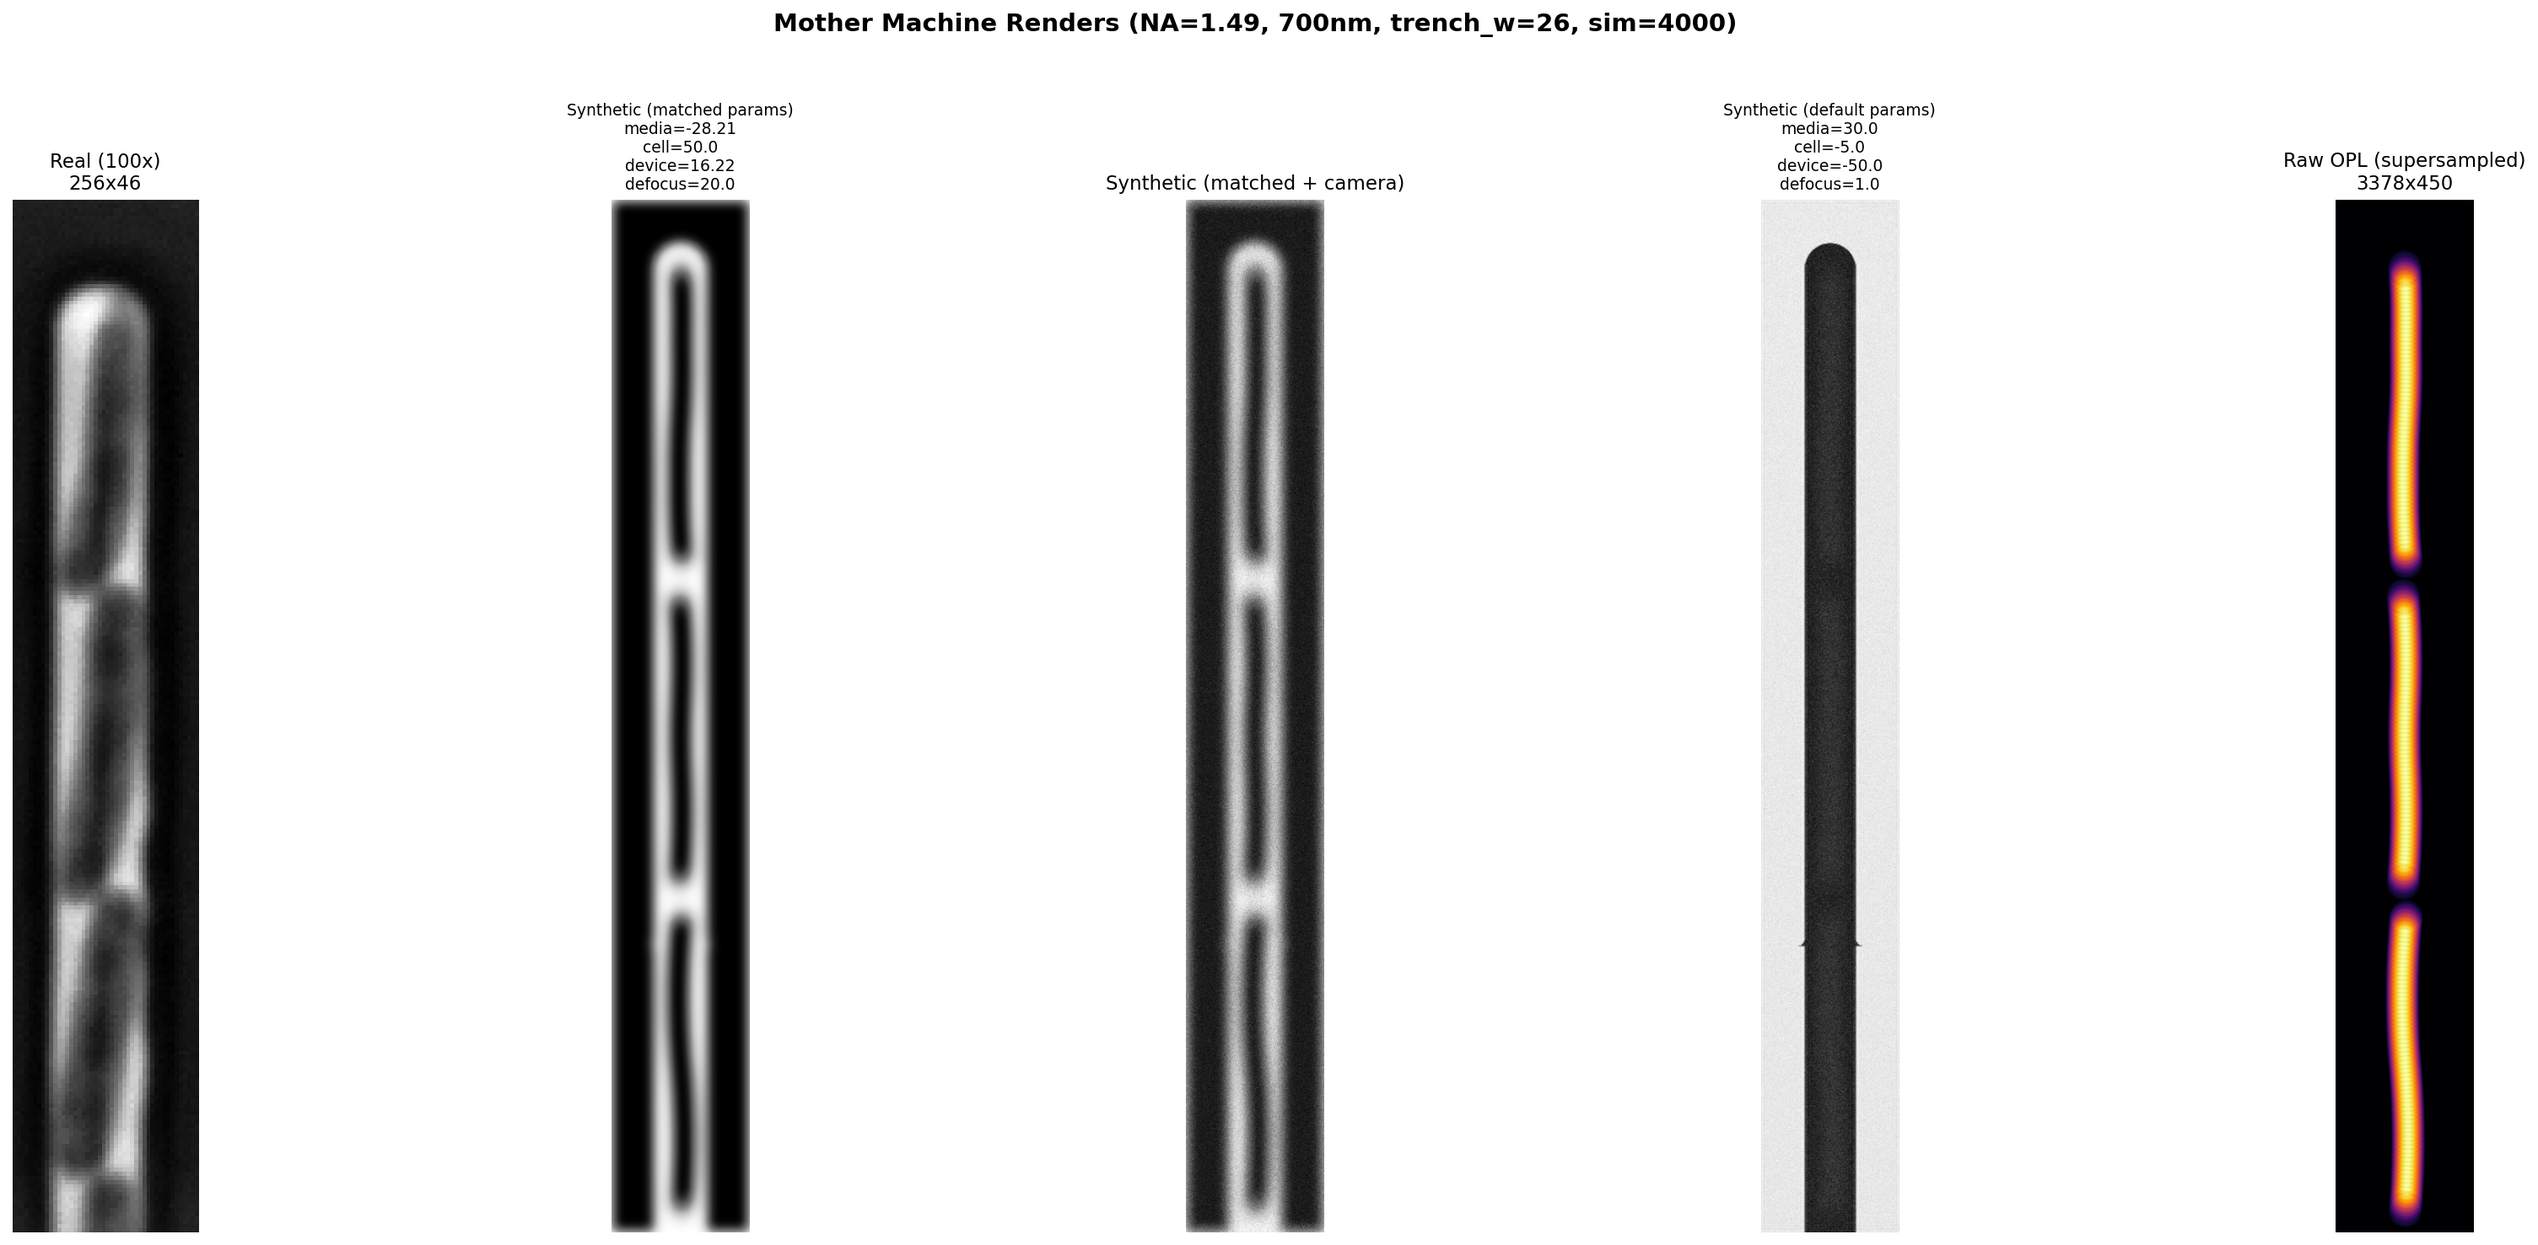
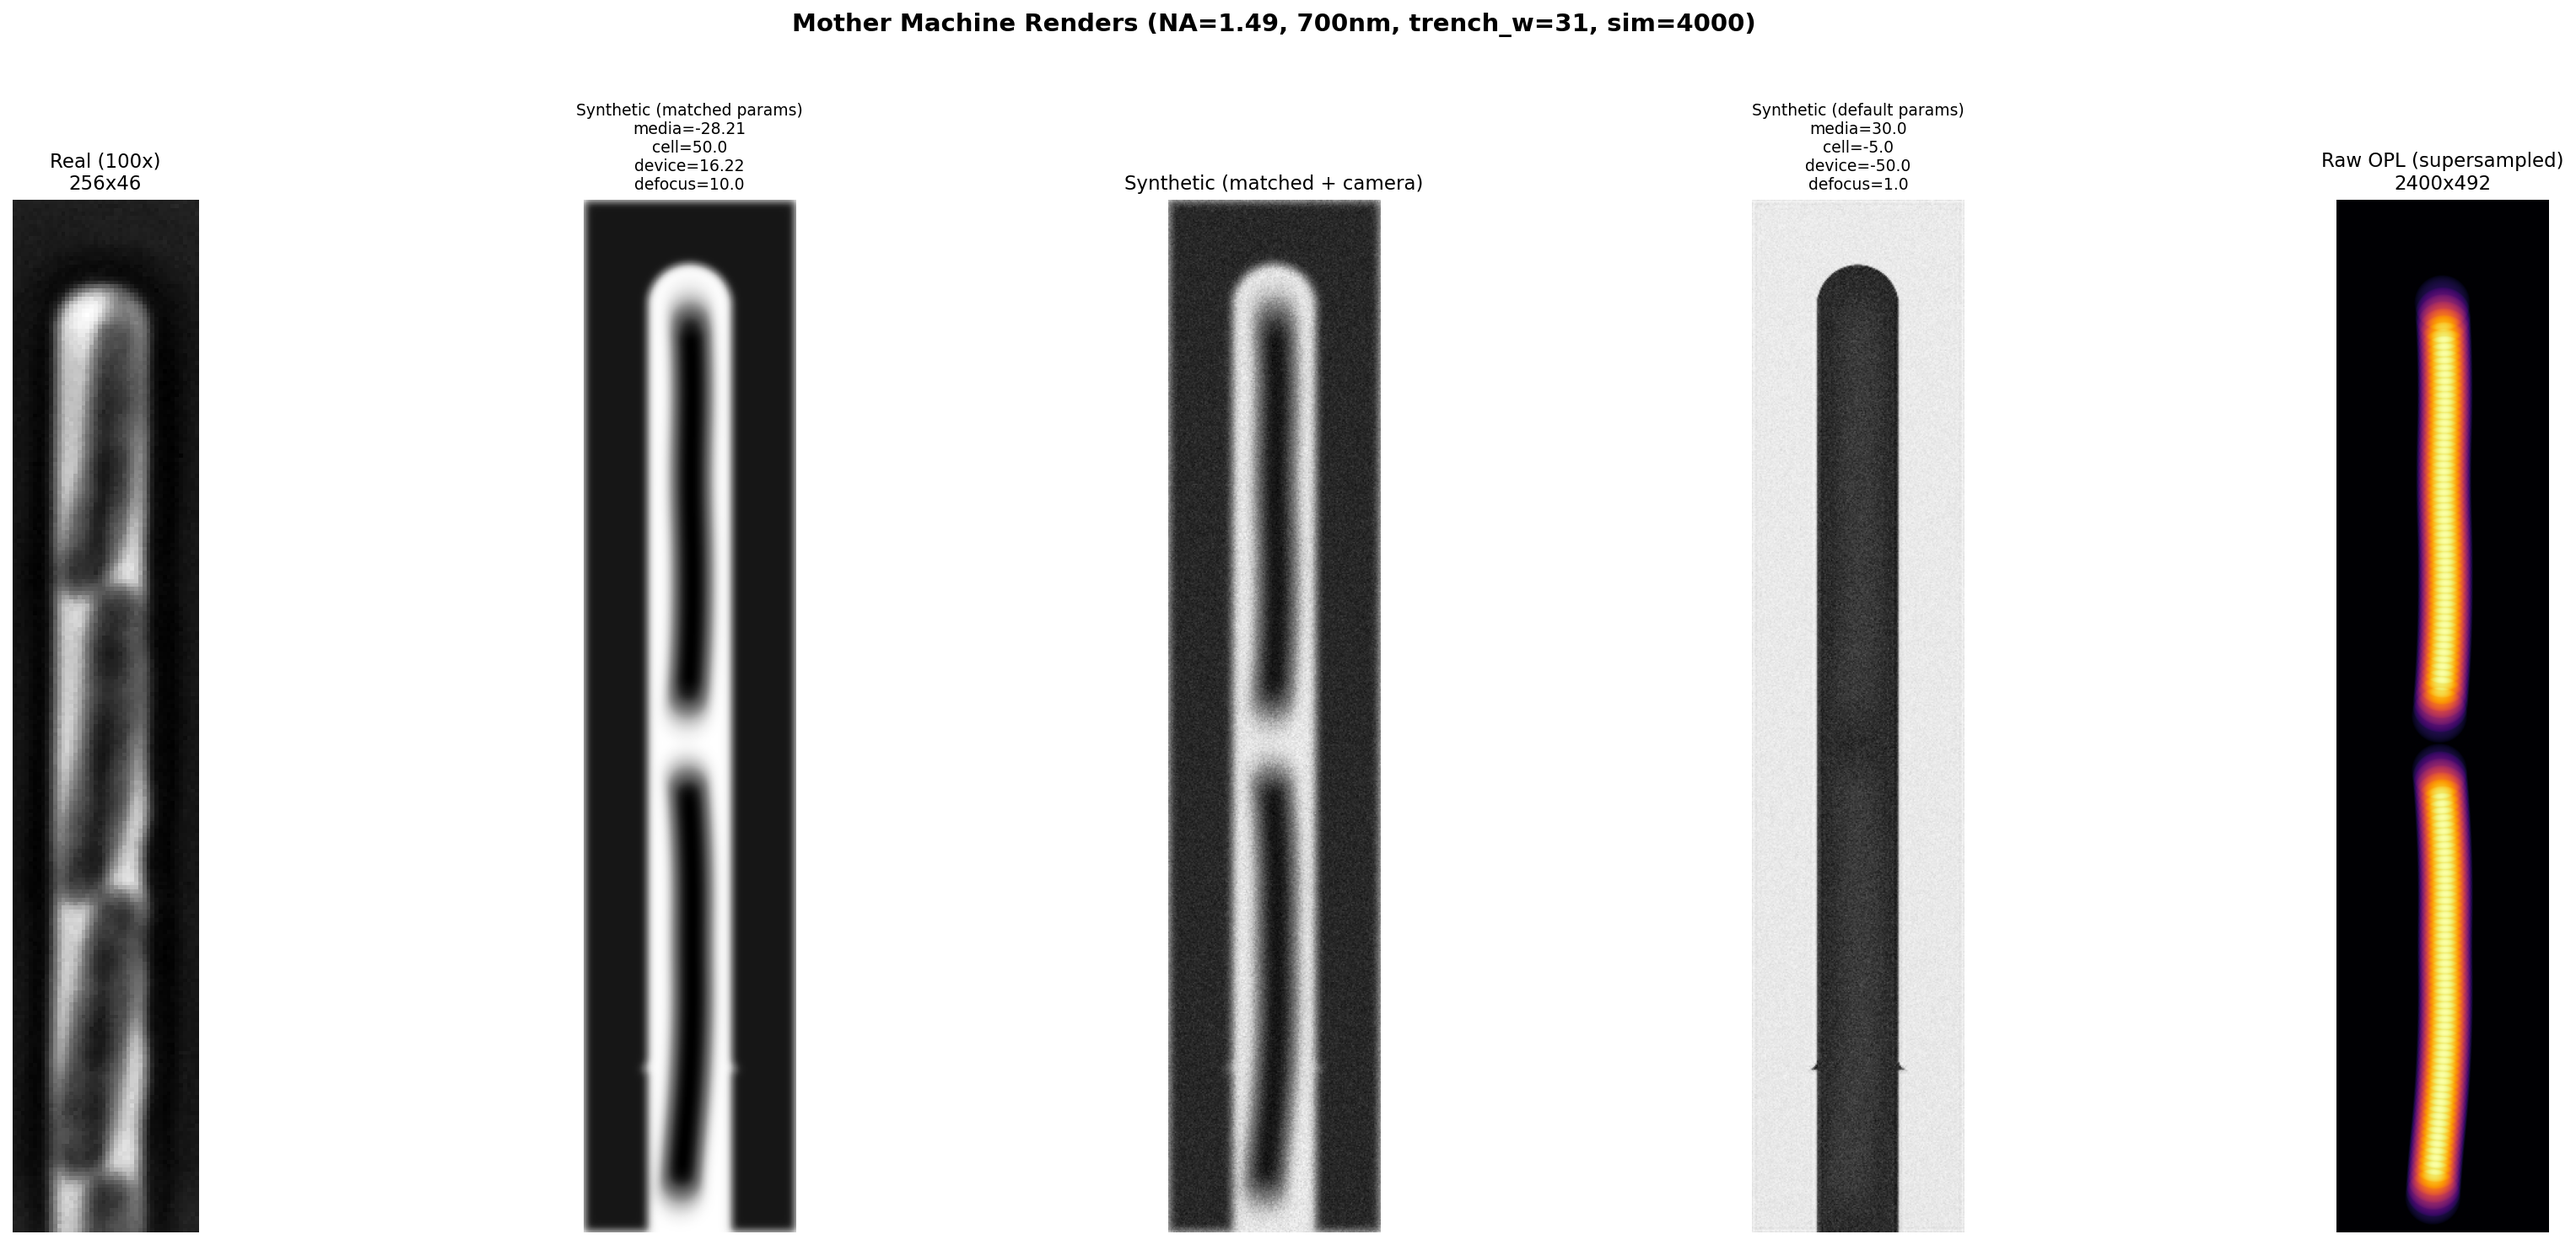
Tune geometry: wider trench/cells, shorter trench, less defocus
- Trench width 26→31 (+20%), length 475→380 (-20%)
- Cell SEGMENT_RADIUS 12→14 (+20% wider)
- Defocus 20→10 (50% reduction for sharper edges)
- Feature distance improved to 3.19 (from 3.72), SSIM 0.38

https://claude.ai/code/session_01U9EEs2Y8n8F9PLao9ZfbHF

diff --git a/examples/render_with_matched_params.py b/examples/render_with_matched_params.py
@@ -46,18 +46,18 @@ print(f"Real image: shape={real_img.shape}, dtype={real_img.dtype}, "
 # Mother machine simulation — 4000 steps, tight trench
 # ============================================================
 # Geometry tuned to match real mother machine appearance:
-# - Trench ~15% wider than initial tight fit
-# - Trench ~5% shorter
-# - Cells 20% thicker (SEGMENT_RADIUS 10→12)
+# - Trench +20% wider again (26→31)
+# - Trench 20% shorter (475→380)
+# - Cells 20% wider (SEGMENT_RADIUS 12→14)
 # - Division length ~2x longer (BASE_MAX_LENGTH 130→260)
-TRENCH_WIDTH = 26
-TRENCH_LENGTH = 475
+TRENCH_WIDTH = 31
+TRENCH_LENGTH = 380
 SIM_STEPS = 4000
 
 physics_config = PhysicsConfig(ITERATIONS=100, DAMPING=0.3)
 cell_config = CellConfig(
     GRANULARITY=4,
-    SEGMENT_RADIUS=12,
+    SEGMENT_RADIUS=14,
     SEGMENT_MASS=1.0,
     GROWTH_RATE=5,
     BASE_MAX_LENGTH=260,
@@ -133,7 +133,7 @@ config_matched = RenderConfig(
     media_multiplier=-28.21,
     cell_multiplier=50.00,
     device_multiplier=16.22,
-    defocus=20.0,
+    defocus=10.0,
     noise_var=0.0,
     border_expansion=1.5,
     halo_top_intensity=1.0,
